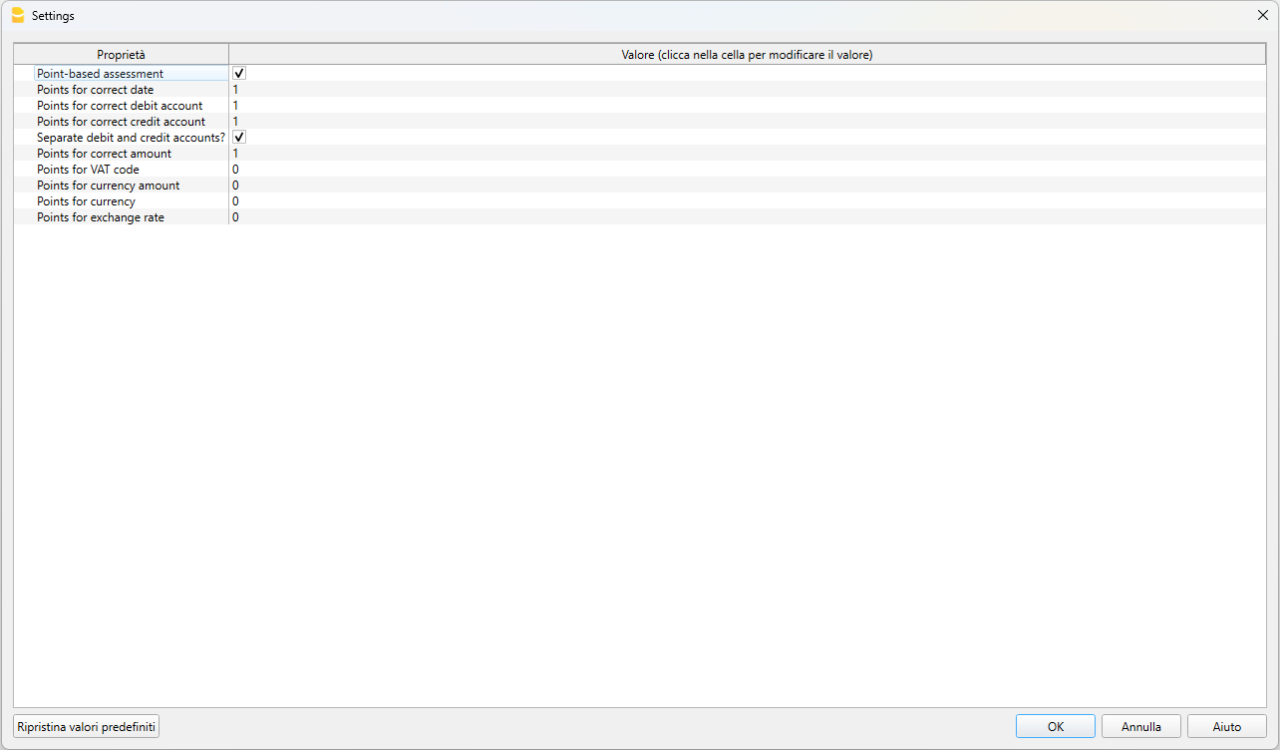
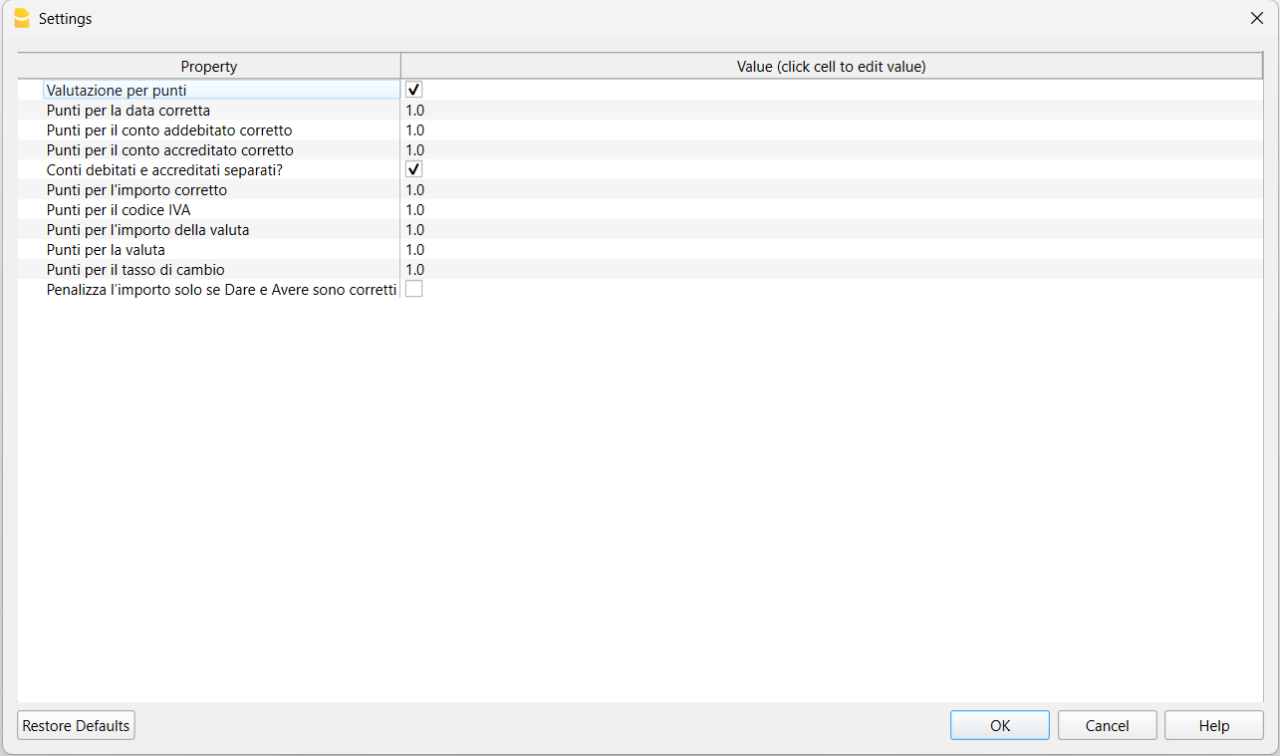
Update Extension and add Image

diff --git a/education/extensions/ch.banana.app.exercisecorrection/ch.banana.app.settings.js b/education/extensions/ch.banana.app.exercisecorrection/ch.banana.app.settings.js
@@ -80,56 +80,56 @@ var PrintSettings = class PrintSettings {
             userParam.score = true;
         }
         if (!userParam.datescore) {
-            userParam.datescore = '1';
+            userParam.datescore = '1.0';
         }
         // Verify that the value is a number
         if (!userParam.datescore.match(/^\d+(\.\d+)?$/)) {
-            userParam.datescore = '1';
+            userParam.datescore = '1.0';
         }
         if (!userParam.debitaccountscore) {
-            userParam.debitaccountscore = '1';
+            userParam.debitaccountscore = '1.0';
         }
         if (!userParam.debitaccountscore.match(/^\d+(\.\d+)?$/)) {
-            userParam.debitaccountscore = '1';
+            userParam.debitaccountscore = '1.0';
         }
         if (!userParam.creditaccountscore) {
-            userParam.creditaccountscore = '1';
+            userParam.creditaccountscore = '1.0';
         }
         if (!userParam.creditaccountscore.match(/^\d+(\.\d+)?$/)) {
-            userParam.creditaccountscore = '1';
+            userParam.creditaccountscore = '1.0';
         }
         if (typeof userParam.debitcreditaccountsscore === undefined) {
             userParam.debitcreditaccountsscore = false;
         }
         if (!userParam.amountscore) {
-            userParam.amountscore = '1';
+            userParam.amountscore = '1.0';
         }
         if (!userParam.amountscore.match(/^\d+(\.\d+)?$/)) {
-            userParam.amountscore = '1';
+            userParam.amountscore = '1.0';
         }
         if (!userParam.vatcodescore) {
-            userParam.vatcodescore = '0';
+            userParam.vatcodescore = '0.0';
         }
         if (!userParam.vatcodescore.match(/^\d+(\.\d+)?$/)) {
-            userParam.vatcodescore = '0';
+            userParam.vatcodescore = '0.0';
         }
         if (!userParam.amountcurrencyscore) {
-            userParam.amountcurrencyscore = '0';
+            userParam.amountcurrencyscore = '0.0';
         }
         if (!userParam.amountcurrencyscore.match(/^\d+(\.\d+)?$/)) {
-            userParam.amountcurrencyscore = '0';
+            userParam.amountcurrencyscore = '0.0';
         }
         if (!userParam.exchangecurrencyscore) {
-            userParam.exchangecurrencyscore = '0';
+            userParam.exchangecurrencyscore = '0.0';
         }
         if (!userParam.exchangecurrencyscore.match(/^\d+(\.\d+)?$/)) {
-            userParam.exchangecurrencyscore = '0';
+            userParam.exchangecurrencyscore = '0.0';
         }
         if (!userParam.exchangeratescore) {
-            userParam.exchangeratescore = '0';
+            userParam.exchangeratescore = '0.0';
         }
         if (!userParam.exchangeratescore.match(/^\d+(\.\d+)?$/)) {
-            userParam.exchangeratescore = '0';
+            userParam.exchangeratescore = '0.0';
         }
         if (typeof userParam.amountonlyifaccountsok === undefined) {
             userParam.amountonlyifaccountsok = false;
@@ -163,7 +163,7 @@ var PrintSettings = class PrintSettings {
         currentParam.title = texts.datescore;
         currentParam.type = 'string';
         currentParam.value = userParam.datescore ? userParam.datescore : '1';
-        currentParam.defaultvalue = '1';
+        currentParam.defaultvalue = '1.0';
         currentParam.readValue = function () {
             userParam.datescore = this.value;
         }
@@ -175,7 +175,7 @@ var PrintSettings = class PrintSettings {
         currentParam.title = texts.debitaccountscore;
         currentParam.type = 'string';
         currentParam.value = userParam.debitaccountscore ? userParam.debitaccountscore : '1';
-        currentParam.defaultvalue = '1';
+        currentParam.defaultvalue = '1.0';
         currentParam.readValue = function () {
             userParam.debitaccountscore = this.value;
         }
@@ -187,7 +187,7 @@ var PrintSettings = class PrintSettings {
         currentParam.title = texts.creditaccountscore;
         currentParam.type = 'string';
         currentParam.value = userParam.creditaccountscore ? userParam.creditaccountscore : '1';
-        currentParam.defaultvalue = '1';
+        currentParam.defaultvalue = '1.0';
         currentParam.readValue = function () {
             userParam.creditaccountscore = this.value;
         }
@@ -211,7 +211,7 @@ var PrintSettings = class PrintSettings {
         currentParam.title = texts.amountscore;
         currentParam.type = 'string';
         currentParam.value = userParam.amountscore ? userParam.amountscore : '1';
-        currentParam.defaultvalue = '1';
+        currentParam.defaultvalue = '1.0';
         currentParam.readValue = function () {
             userParam.amountscore = this.value;
         }
@@ -223,7 +223,7 @@ var PrintSettings = class PrintSettings {
         currentParam.title = texts.vatcodescore;
         currentParam.type = 'string';
         currentParam.value = userParam.vatcodescore ? userParam.vatcodescore : '0';
-        currentParam.defaultvalue = '0';
+        currentParam.defaultvalue = '0.0';
         currentParam.readValue = function () {
             userParam.vatcodescore = this.value;
         }
@@ -235,7 +235,7 @@ var PrintSettings = class PrintSettings {
         currentParam.title = texts.amountcurrencyscore;
         currentParam.type = 'string';
         currentParam.value = userParam.amountcurrencyscore ? userParam.amountcurrencyscore : '0';
-        currentParam.defaultvalue = '0';
+        currentParam.defaultvalue = '0.0';
         currentParam.readValue = function () {
             userParam.amountcurrencyscore = this.value;
         }
@@ -247,7 +247,7 @@ var PrintSettings = class PrintSettings {
         currentParam.title = texts.exchangecurrencyscore;
         currentParam.type = 'string';
         currentParam.value = userParam.exchangecurrencyscore ? userParam.exchangecurrencyscore : '0';
-        currentParam.defaultvalue = '0';
+        currentParam.defaultvalue = '0.0';
         currentParam.readValue = function () {
             userParam.exchangecurrencyscore = this.value;
         }
@@ -259,7 +259,7 @@ var PrintSettings = class PrintSettings {
         currentParam.title = texts.exchangeratescore;
         currentParam.type = 'string';
         currentParam.value = userParam.exchangeratescore ? userParam.exchangeratescore : '0';
-        currentParam.defaultvalue = '0';
+        currentParam.defaultvalue = '0.0';
         currentParam.readValue = function () {
             userParam.exchangeratescore = this.value;
         }
@@ -284,15 +284,15 @@ var PrintSettings = class PrintSettings {
     initParam(paramcorrections) {
         let userParam = {};
         userParam.score = true;
-        userParam.datescore = '1';
-        userParam.debitaccountscore = '1';
-        userParam.creditaccountscore = '1';
+        userParam.datescore = '1.0';
+        userParam.debitaccountscore = '1.0';
+        userParam.creditaccountscore = '1.0';
         userParam.debitcreditaccountsscore = true;
-        userParam.amountscore = '1';
-        userParam.vatcodescore = '0';
-        userParam.amountcurrencyscore = '0';
-        userParam.exchangecurrencyscore = '0';
-        userParam.exchangeratescore = '0';
+        userParam.amountscore = '1.0';
+        userParam.vatcodescore = '0.0';
+        userParam.amountcurrencyscore = '0.0';
+        userParam.exchangecurrencyscore = '0.0';
+        userParam.exchangeratescore = '0.0';
         userParam.amountonlyifaccountsok = false;
 
         return userParam;
